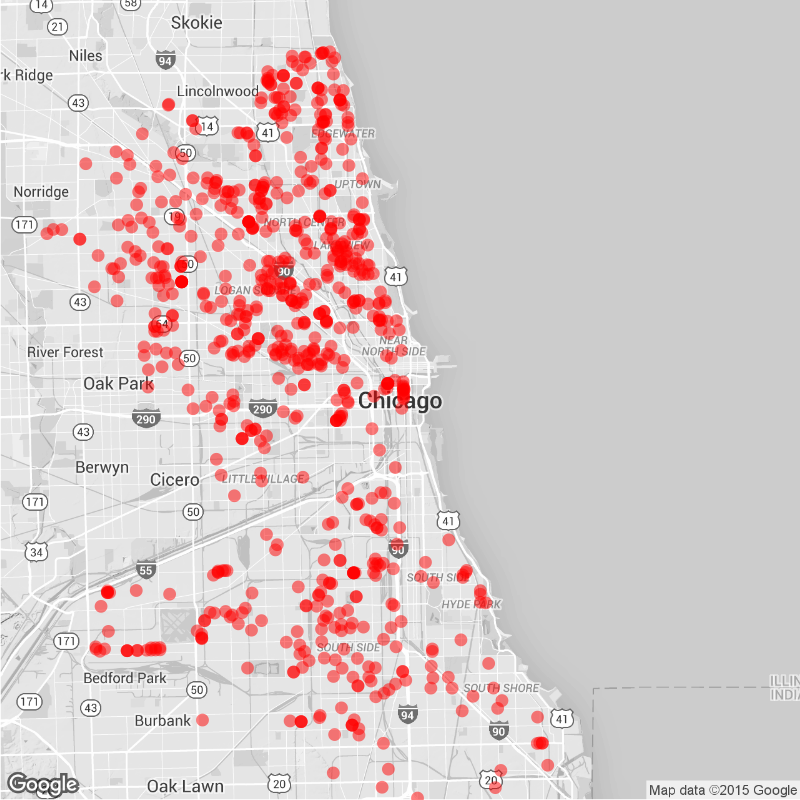
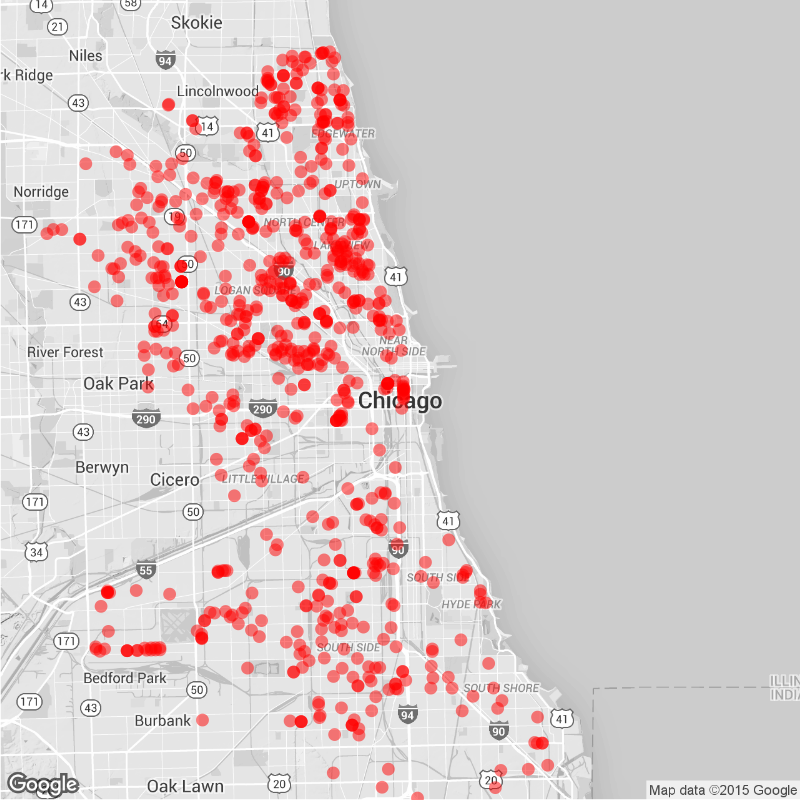
Daily Maps

diff --git a/daily.md b/daily.md
@@ -15,22 +15,22 @@ tags: Chicago NYC weekly daily rats
 
 ### Daily
 
-Yesterday (November 06), there were 110 calls to Chicago's 311 line about rats.
+Yesterday (November 07), there were 41 calls to Chicago's 311 line about rats.
 ![Chicago rat calls to 311 weekly map]({{ site.cityimages }}/daily/Chicago_Rat_Map_Daily.png)
 
 ### Weekly
-Between October 31 and November 06, there were 782 calls to Chicago's 311 line about rats. The average number of weekly calls for this time of year is 479.
+Between November 01 and November 07, there were 790 calls to Chicago's 311 line about rats. The average number of weekly calls for this time of year is 479.
 ![Chicago rat calls to 311 weekly map]({{ site.cityimages }}/daily/Chicago_Rat_Map_Weekly.png)
 ***
 # New York City <a id="nyc"><a>
 
 ### Daily
 
-Yesterday (November 06), there were 0 calls to New York City's 311 line about rats.
+Yesterday (November 07), there were 0 calls to New York City's 311 line about rats.
 ![NYC rat calls to 311 weekly map]({{ site.cityimages }}/daily/NYC_Rat_Map_Daily.png)
 
 ### Weekly
-Between October 31 and November 06, there were 0 calls to New York City's 311 line about rats. The average number of weekly calls for this time of year is 170.
+Between November 01 and November 07, there were 0 calls to New York City's 311 line about rats. The average number of weekly calls for this time of year is 170.
 ![NYC rat calls to 311 weekly map]({{ site.cityimages }}/daily/NYC_Rat_Map_Weekly.png)
 
 Each red dot represents one call about a rat seen in that location. The dots are transparent, so multiple calls from one location will be seen as a solid dot. The usual caveats apply: more calls do not necessarily mean that there are more rats in that location than other parts of the city. A cluster of dots could indicate that one resident is unusually vocal about rodents in his or her neighborhood. Also, more densely populated neighborhoods tend to make more calls to 311.
